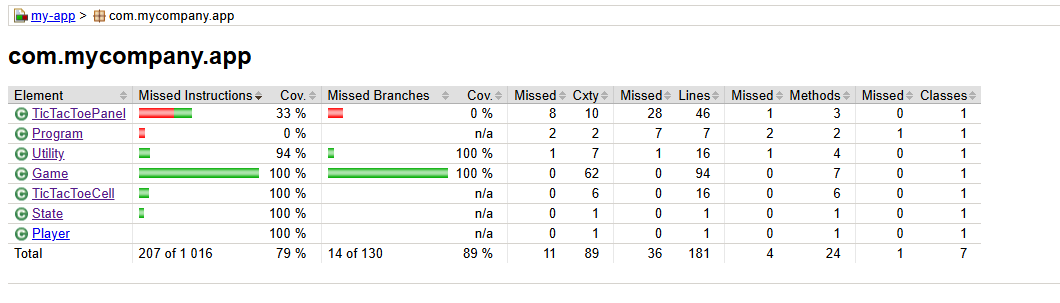
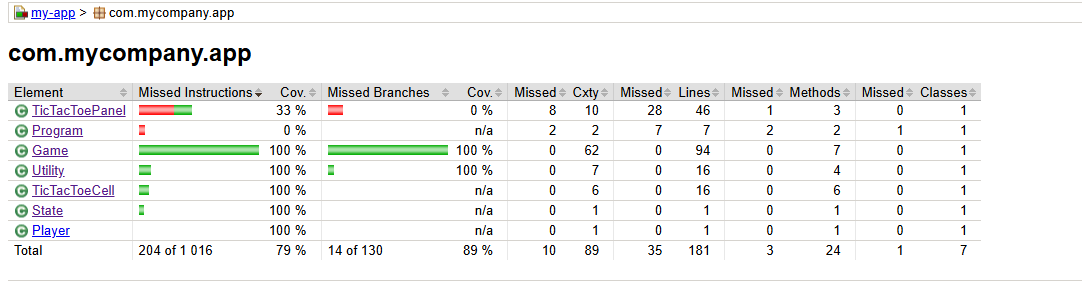
redirect output to actually test Utility

diff --git a/src/test/java/com/mycompany/app/ProgramTest.java b/src/test/java/com/mycompany/app/ProgramTest.java
@@ -2,10 +2,27 @@ package com.mycompany.app;
 
 import org.junit.jupiter.api.Assertions;
 import org.junit.jupiter.api.Test;
+import org.junit.jupiter.api.BeforeEach;
+import org.junit.jupiter.api.AfterEach;
 import java.util.ArrayList;
 import java.awt.GridLayout;
+import java.io.ByteArrayOutputStream;
+import java.io.PrintStream;
 
 public class ProgramTest {
+
+    private ByteArrayOutputStream testout = new ByteArrayOutputStream();
+    private PrintStream stdout = System.out;
+
+    @BeforeEach
+    public void setUp() {
+        System.setOut(new PrintStream(testout));
+    }
+
+    @AfterEach
+    public void tearDown() {
+        System.setOut(stdout);
+    }
 
     @Test
     public void testPlayer() {
@@ -155,19 +172,26 @@ public class ProgramTest {
         TicTacToePanel panel = new TicTacToePanel(new GridLayout(3, 3));
         Assertions.assertNotNull(panel);
     }
-    
+
     @Test
     public void testUtility() {
-        char[] board = new char[9];
-        int[] intBoard = new int[9];
+        Utility utility = new Utility();
+        String sep = System.lineSeparator();
+
+        utility.print(new char[9]);
+        Assertions.assertEquals(sep + "\0-\0-\0-\0-\0-\0-\0-\0-\0-" + sep, testout.toString());
+        testout.reset();
+
+        utility.print(new int[9]);
+        Assertions.assertEquals(sep + "0-0-0-0-0-0-0-0-0-" + sep, testout.toString());
+        testout.reset();
+
         ArrayList<Integer> moves = new ArrayList<>();
         moves.add(1);
-
-        Utility.print(board);
-        Utility.print(intBoard);
-        Utility.print(moves);
+        utility.print(moves);
+        Assertions.assertEquals(sep + "1-" + sep, testout.toString());
     }
-    
+
     private char[] genWinState(char symbol, int winState) {
         char[] board = {' ', ' ', ' ', ' ', ' ', ' ', ' ', ' ', ' '};
         switch (winState) {
